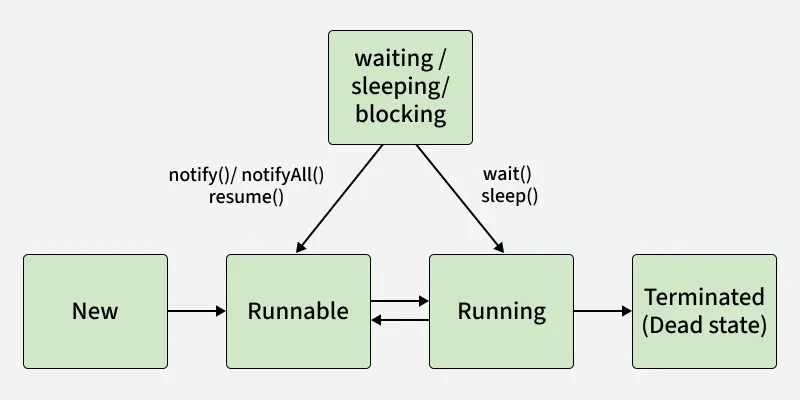
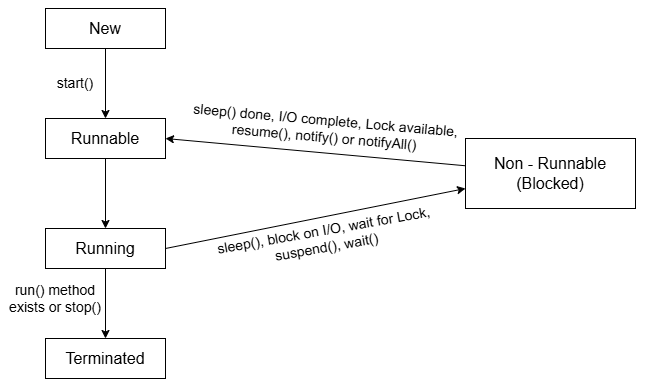
Life Cycle of a Thread

diff --git a/Notes.md b/Notes.md
@@ -76,6 +76,68 @@ Class file -> Class loader -> Byte Code verifier -> Interpreter -> Runtime -> Ha
 > - **CamelCase** : `helloWorld`
 > - **SnakeCase** : `hello_world`
 
+### `public static void main(String[] args)` explained
+
+```java
+class Demo{
+    public static void main(String[] args) {
+        System.out.println("Hello, World!");
+    }
+}
+```
+
+- Save this file as `Demo.java`
+- To compile: `javac Demo.java`
+- To run: `java Demo`
+
+#### Parameters used
+
+- `class` keyword is used to declare a class in java.
+- `public` keyword is an access modifier which represets visibility, it means it is visible to all.
+- `static` is a keyword, if we declare any method as static , it is known as static method. The core advantage of static method is that there is no need to create an object to invoke the static method.
+  The **main** method is executed by the JVM, so it doesn't require to create object to inovke the main method. So it saves memory.
+- `void` keyword is used to declare the return type of the method; it means it doesn't return any value.
+- `main` represents the entry point of the program.
+- `String[] args` is used to accept command-line arguments.
+- `System.out.println()` is used to print the output on the console. `System` is a class in the java.lang package. The `out` is a static variable in the `System` class, and is an insurance of java.io.PrintStream. The `println()` method is used to print the output on the console. The `println` is a method of java.io.PrintStream; this method is overloaded to print message to output destination, which is typically a console or a file.
+
+> ❓ **Difference between print and println**
+> ➡ `print` method doesn't add a new line character at the end of the output, while `println` method adds a new line character at the end of the output.
+> The `println()` method can also be used without parameters, to position the cursor on the next line.
+
+> ❓ **What happens at compile time?**
+> ➡ At compile time, java file is compiled by Java Compiler (it does not interact with OS) and converts java code into bytecode.
+
+    Java Code (Demo.java) →  Compiler  →  Bytecode (Demo.class)
+
+The compiler reads the source code and generates bytecode from it. The bytecode is then stored in a file with the same name as the source file, but with a `.class` extension.
+
+> ❓ **What happens at run time?**
+> ➡ The JVM reads the bytecode and executes it.
+
+> ❓ **Can you save a java source file by other name than the class name?**
+> ➡ Yes, if the class is not public. It is explained by the example below:
+
+```java
+class Demo{
+    public static void main(String[] args) {
+        System.out.println("Hello, World!");
+    }
+}
+```
+
+- Save this file as `Simple.java`
+
+        Simple.java → Compiler  →  Bytecode (Demo.class)
+
+- To compile: `javac Simple.java`
+- To run/execute: `java Demo`
+
+> ❓ **Can you have multiple classes in a java source file?**
+> ➡ Yes.
+
+![Multiple Classes Example](./resources/multiple-classes.png)
+
 ## 2. Data Types
 
 Java has two main categories of data types:
@@ -150,67 +212,78 @@ String myText = "Hi"; // myText is a String
 > ❓ _What is the difference between primitive and reference data types?_
 > ➡ Primitive stores **actual value**. Reference stores **address of the object in heap memory**.
 
-## 3. `public static void main(String[] args)` explained
+## 3. Differences Between JDK, JRE and JVM
+JDK (Java Development Kit) provides tools and libraries to develop Java applications, working with JRE and JVM. JRE (Java Runtime Environment) offers the libraries and JVM needed to run Java programs. JVM (Java Virtual Machine) executes the compiled Java bytecode on the system.
 
-```java
-class Demo{
-    public static void main(String[] args) {
-        System.out.println("Hello, World!");
-    }
-}
-```
+![JDK, JRE and JVM](/resources/jvm.png)
 
-- Save this file as `Demo.java`
-- To compile: `javac Demo.java`
-- To run: `java Demo`
+> 📝: Java bytecode can run on any machine with a JVM, but JVM implementations are platform-dependent for each operating system.
 
-### Parameters used
+### JDK (Java Development Kit)
+JDK is a software development kit used to build Java applications. It contains the JRE and a set of development tools.
 
-- `class` keyword is used to declare a class in java.
-- `public` keyword is an access modifier which represets visibility, it means it is visible to all.
-- `static` is a keyword, if we declare any method as static , it is known as static method. The core advantage of static method is that there is no need to create an object to invoke the static method.
-  The **main** method is executed by the JVM, so it doesn't require to create object to inovke the main method. So it saves memory.
-- `void` keyword is used to declare the return type of the method; it means it doesn't return any value.
-- `main` represents the entry point of the program.
-- `String[] args` is used to accept command-line arguments.
-- `System.out.println()` is used to print the output on the console. `System` is a class in the java.lang package. The `out` is a static variable in the `System` class, and is an insurance of java.io.PrintStream. The `println()` method is used to print the output on the console. The `println` is a method of java.io.PrintStream; this method is overloaded to print message to output destination, which is typically a console or a file.
+- Includes compiler (javac), debugger, and utilities like jar and javadoc.
+- Provides the JRE, so it also allows running Java programs.
+- Required by developers to write, compile, and debug code.
 
-> ❓ **Difference between print and println**
-> ➡ `print` method doesn't add a new line character at the end of the output, while `println` method adds a new line character at the end of the output.
-> The `println()` method can also be used without parameters, to position the cursor on the next line.
+**Components of JDK:**
 
-> ❓ **What happens at compile time?**
-> ➡ At compile time, java file is compiled by Java Compiler (it does not interact with OS) and converts java code into bytecode.
+- JRE (JVM + libraries)
+- Development tools (compiler, jar, javadoc, debugger)
 
-    Java Code (Demo.java) →  Compiler  →  Bytecode (Demo.class)
+**Note:**
+- JDK is only for development (it is not needed for running Java programs)
+- JDK is platform-dependent (different version for windows, Linux, macOS)
 
-The compiler reads the source code and generates bytecode from it. The bytecode is then stored in a file with the same name as the source file, but with a `.class` extension.
+#### Working of JDK:
+- **Source Code (.java)**: Developer writes a Java program.
+- **Compilation**: The JDK’s compiler (javac) converts the code into bytecode stored in .class files.
+- **Execution**: The JVM executes the bytecode, translating it into native instructions.
 
-> ❓ **What happens at run time?**
-> ➡ The JVM reads the bytecode and executes it.
+### JRE (Java Runtime Environment)
+JRE provides an environment to run Java programs but does not include development tools. It is intended for end-users who only need to execute applications.
 
-> ❓ **Can you save a java source file by other name than the class name?**
-> ➡ Yes, if the class is not public. It is explained by the example below:
+- Contains the JVM and standard class libraries.
+- Provides all runtime requirements for Java applications.
+- Does not support compilation or debugging.
 
-```java
-class Demo{
-    public static void main(String[] args) {
-        System.out.println("Hello, World!");
-    }
-}
-```
+**Note:**
+- JRE is only for running applications, not for developing them.
+- It is platform-dependent (different builds for different OS).
 
-- Save this file as `Simple.java`
+#### Working of JRE:
+- **Class Loading**: Loads compiled .class files into memory.
+- **Bytecode Verification**: Ensures security and validity of bytecode.
+- **Execution**: Uses the JVM (interpreter + JIT compiler) to execute instructions and make system calls.
 
-        Simple.java → Compiler  →  Bytecode (Demo.class)
+### JVM (Java Virtual Machine)
+JVM is the core execution engine of Java. It is responsible for converting bytecode into machine-specific instructions.
 
-- To compile: `javac Simple.java`
-- To run/execute: `java Demo`
+- Part of both JDK and JRE.
+- Performs memory management and garbage collection.
+- Provides portability by executing the same bytecode on different platforms.
 
-> ❓ **Can you have multiple classes in a java source file?**
-> ➡ Yes.
+**Note:**
+- JVM implementations are platform-dependent.
+- Bytecode is platform-independent and can run on any JVM.
+- Modern JVMs rely heavily on Just-In-Time (JIT) compilation for performance.
 
-![Multiple Classes Example](./resources/multiple-classes.png)
+#### Working of JVM
+
+![jvm_working](/resources/jvm_working.png)
+
+1. **Loading**: Class loader loads bytecode into memory.
+2. **Linking**: Performs verification, preparation, and resolution.
+3. **Initialization**: Executes class constructors and static initializers.
+4. **Execution**: Interprets or compiles bytecode into native code.
+
+### JDK vs JRE vs JVM
+| Aspect              | JDK                                      | JRE                                      | JVM                                                   |
+|---------------------|-------------------------------------------|-------------------------------------------|--------------------------------------------------------|
+| **Purpose**             | Used to develop Java applications         | Used to run Java applications             | Executes Java bytecode                                |
+| **Platform Dependency** | Platform-dependent (OS specific)          | Platform-dependent (OS specific)          | JVM is OS-specific JVM, but bytecode is platform-independent |
+| **Includes**            | JRE + Development tools (javac, debugger, etc.) | JVM + Libraries (e.g., rt.jar)            | ClassLoader, JIT Compiler, Garbage Collector          |
+| **Use Case**            | Writing and compiling Java code           | Running a Java application on a system               | Converts bytecode into native machine code            |
 
 ## 4. Operators
 
@@ -7028,6 +7101,12 @@ Useful for testing, converting strings to streams, in-memory data processing.
 ➡ It creates a stream that reads only a **portion** of array → from index `0` up to `3`.
 
 ## 52. Multithreading
+Process of executing multiple threads simultaneously.
+
+Thread is basically a lightweight sub-process, a smallest unit of processing. Multiprocessing and Multithreading, both are used to achieve **multitasking**.
+
+But we use Multithreading than multiprocessing because threads share a common memmory area. They don't allocate separate memory area so saves memory, and context-switching between the threads takes less time than process.
+
 Multithreading in Java is a feature that enables a program to run multiple threads simultaneously, allowing tasks to execute in parallel and utilize the CPU more efficiently. A thread is a lightweight, independent unit of execution inside a program (process).
 
 - A process can have multiple threads.
@@ -7047,6 +7126,16 @@ Multithreading in Java is a feature that enables a program to run multiple threa
 ![multithreading](/resources/multithreading_example.png)
 
 ### Java Threads
+A thread is a lightweight sub-process, a smallest unit of processing. It is a separate path of execution.
+
+Threads are independent, if there occurs exception in one thread, it doesn't affect other threads. It shares a common memory area.
+
+![thread](/resources/thread.png) 
+
+As shown in the fig, thread is executed inside the process. There is context-switching between the threads. There can be multiple processes inside the OS and one process can have multiple threads.
+
+> 📝: At a time one thread is executed only.
+
 Threads allows a program to operate more efficiently by doing multiple things at the same time.
 
 Threads can be used to perform complicated tasks in the background without interrupting the main program.
@@ -7276,13 +7365,16 @@ class Worker extends Thread {
 ### Life Cycle of a Thread (controlled by JVM)
 A thread passes through different states like New, Runnable, Running, Waiting and Terminated. The lifecycle is managed by the JVM and thread scheduler.
 
+A thread passes through different states like New, Runnable, Running, Waiting and Terminated. The lifecycle is managed by the JVM and thread scheduler.
+
 ![thread_lifecycle](/resources/Java-Multithreading3.png)
 
-1. Initialization (New) State
-2. Runnable state
-3. Running
-4. Blocked (Non-Runnable)
-5. Destroy (Terminated)
+During its thread life cycle, a Java thread transitions through several states from creation to termination.
+- **New**: Thread object is created but not started.
+- **Runnable**: Thread is ready to run and waiting for CPU allocation.
+- **Running**: Thread is executing its run() method.
+- **Waiting/Blocked**: Thread waits for a resource or another thread.
+- **Terminated**: Thread completes execution or is stopped.
 
 ### Thread Priorities
 Threads can be assigned priorities to influence scheduling decisions. Higher priority threads are given preference by the thread scheduler.
@@ -7303,6 +7395,9 @@ Thread safety ensures correct program execution when multiple threads access sha
 The concurrency package provides tools like Executors, Callable, Future and Thread Pools. These simplify managing multithreaded applications.
 
 ### Advantages of Multithreading in Java
+1. It doesn't block the user because threads are independent and you can perform multiple operations at same time.
+2. You can perform many operations together so it saves time.
+3. Threads are independent so it doesn't affect other threads if exception occur in a single thread. 
 
 ![advantages_of_multithreading](/resources/Java-Multithreading4.png)
 
@@ -7409,11 +7504,11 @@ class A implements Runnable{
 - You must **never** call `run()` directly → it will run like a normal method, not a thread.
 
 ### When to Use Which?
-✔ Use extends Thread when:
+✔ Use **extends Thread** when:
 - Your class does not extend any other class
 - You want to customize Thread class itself
 
-✔ Use implements Runnable when (recommended) :
+✔ Use **implements Runnable** when (recommended) :
 - Your class already extends another class (preferred because Java doesn’t support multiple inheritance)
 - You want cleaner, modular code
 - You want to share the same task among multiple threads
@@ -7434,7 +7529,7 @@ public final boolean isAlive()
 * **true** → Thread is still running (Runnable/Running state)
 * **false** → Thread has finished execution or has not started yet
 
-## ⭐ Why use `isAlive()`?
+### Why use `isAlive()`?
 
 It helps to:
 * Check if a thread is still active
@@ -7496,11 +7591,6 @@ class A implements Runnable{
 `isAlive()` tests if this thread is alive. A thread is alive if it has been started and has not yet died. There is a transitional period from when a thread is running to when a thread is not running. After the `run()` method returns, there is a short period of time before the thread stops. If we want to know if the `start` method of the thread has been called or if thread has been terminated, we must use `isAlive()` method.
 This method is used to find out if a thread has actually been started and has yet not terminated.
 
-* A thread becomes "alive" **only after** calling `start()`.
-* Calling `run()` directly does **NOT** make a thread alive.
-* A thread remains alive until the `run()` method completes.
-* After completion, `isAlive()` always returns `false`.
----
 `isAlive()` checks whether a thread is **still active**.
 A thread is considered **alive** if:
 
@@ -7518,3 +7608,33 @@ There is a brief transitional moment after the `run()` method completes but befo
 In short:
 
 > **`isAlive()` helps determine if a thread has actually started and has not yet finished running.**
+---
+* A thread becomes "alive" **only after** calling `start()`.
+* Calling `run()` directly does **NOT** make a thread alive.
+* A thread remains alive until the `run()` method completes.
+* After completion, `isAlive()` always returns `false`.
+
+## 53. Life Cycle of a Thread - Thread States (controlled by JVM)
+The lifecycle of the thread in Java is controlled by JVM.
+
+![thread_lifecycle](/resources/thread_lifecycle.png)
+
+1. **New**: The thread is in new state if you create an instance of `Thread` class but before the invocation of `start()` method.
+2. **Runnable**: The thread is in `Runnable` state after the invocation of `start()` method, but the thread schedular has not selected it to be the running thread.
+3. **Running**: The thread is in running state if the thread schedular has selected it.
+4. **Non-Runnable (Blocked)**: This is the state when the thread is still alive, but is currently not eligible to run.
+5. **Terminated**: A thread is in terminated or dead state when its `run()` method exists.
+
+### Thread Schedular in Java
+- It is the part of the JVM that decides which thread should run.
+- There is no guarantee that which runnable thread will be chosen to run by the thread schedular.
+- Only one thread at a time can run in a single process.
+- The thread schedular mainly uses preemptive or time-slicing scheduling to schedule the threads.
+
+### Starting a thread:
+`start()` method of `Thread` class is used to start a newly created thread. It performs following tasks:
+- A new thread starts (with new callstack).
+- The thread moves from **New** state to **Runnable** state.
+- When the thread gets a  chance to execute, its target `run()` method will run.
+
+> 📝: `start()` methods only schedules the thread for execution and not actually begins the execution of the thread. The execution of the thread is started when the JVM calls the `run()` method of the thread once the CPU Schedular picks this scheduled thread for execution.
